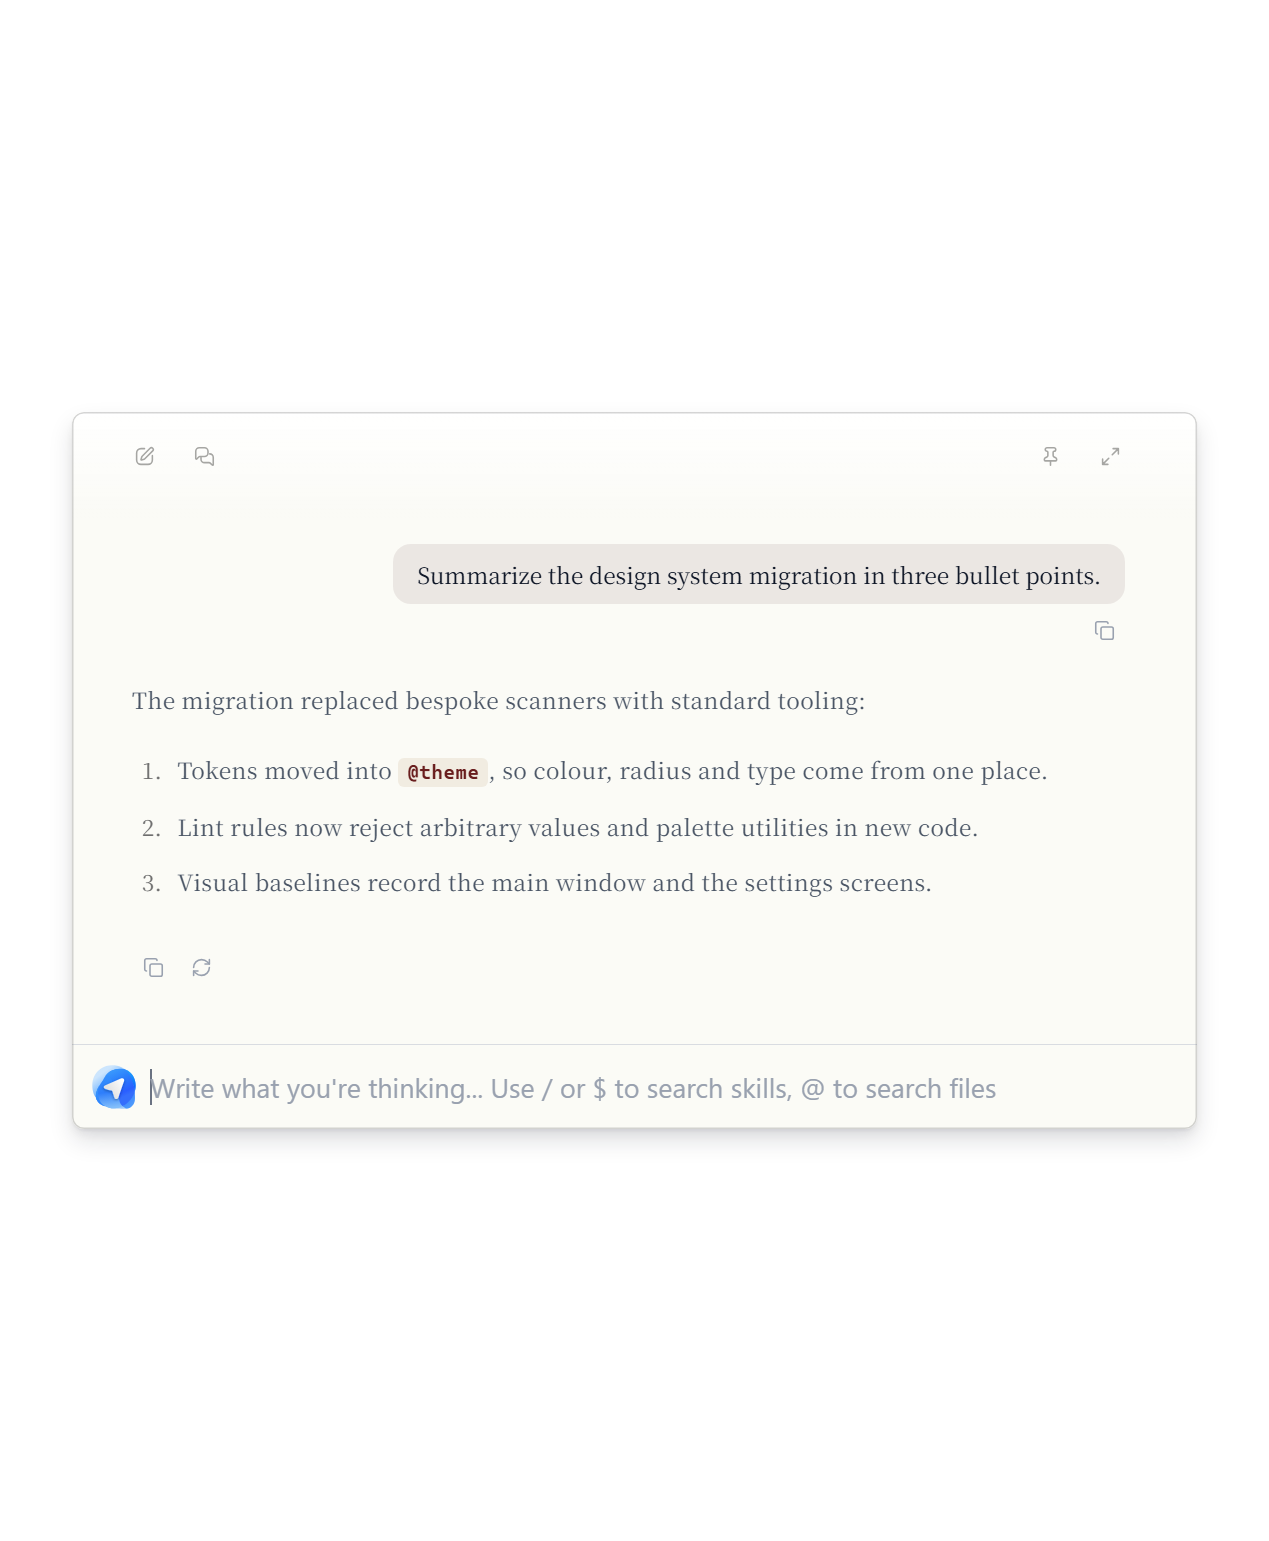
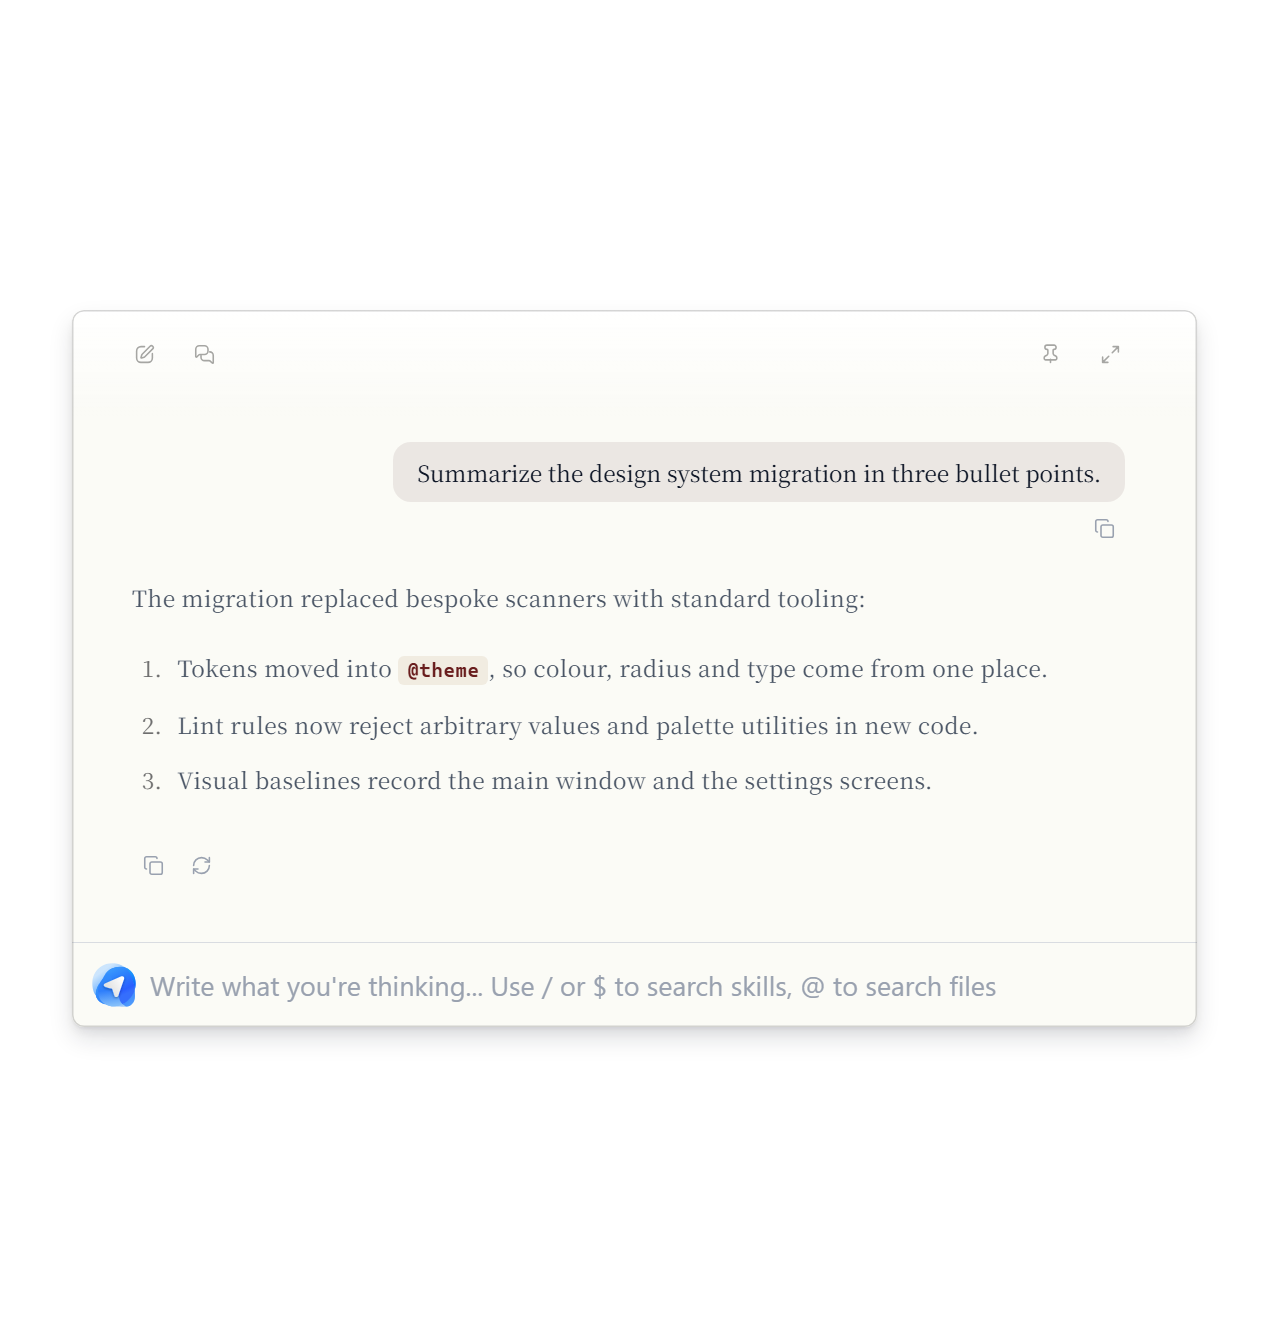
fix(desktop): use a soft pushpin glyph for window pin
Lucide's pushpin head and flange collapse into a dense blob at the 14px
toolbar size. The local pushpin keeps the same silhouette but uses a
capsule head and a rounded flange, so the outline stays readable and
soft next to the other toolbar glyphs.

Running-app evidence was regenerated from the built Tauri app.

diff --git a/apps/desktop/src/components/appIconMap.ts b/apps/desktop/src/components/appIconMap.ts
@@ -1,5 +1,6 @@
 import RoundedMessagesSquareIcon from '@components/icons/RoundedMessagesSquareIcon.vue';
 import RoundedSquarePenIcon from '@components/icons/RoundedSquarePenIcon.vue';
+import SoftPinIcon from '@components/icons/SoftPinIcon.vue';
 import type { Component } from 'vue';
 
 import IconArrowBigUp from '~icons/lucide/arrow-big-up';
@@ -41,7 +42,6 @@ import IconCompress from '~icons/lucide/minimize-2';
 import IconMinus from '~icons/lucide/minus';
 import IconPointer from '~icons/lucide/mouse-pointer-2';
 import IconEdit from '~icons/lucide/pencil';
-import IconPin from '~icons/lucide/pin';
 import IconPlay from '~icons/lucide/play';
 import IconPlus from '~icons/lucide/plus';
 import IconRefresh from '~icons/lucide/refresh-cw';
@@ -101,7 +101,7 @@ export const appIconMap = {
     mcp: IconBlocks,
     minimize: IconMinus,
     'new-session': RoundedSquarePenIcon,
-    pin: IconPin,
+    pin: SoftPinIcon,
     play: IconPlay,
     plus: IconPlus,
     refresh: IconRefresh,

diff --git a/apps/desktop/src/components/icons/SoftPinIcon.vue b/apps/desktop/src/components/icons/SoftPinIcon.vue
@@ -1,0 +1,14 @@
+<template>
+    <svg
+        xmlns="http://www.w3.org/2000/svg"
+        viewBox="0 0 24 24"
+        fill="none"
+        stroke="currentColor"
+        stroke-linecap="round"
+        stroke-linejoin="round"
+    >
+        <path
+            d="M12 17.4v3.8M9 10.9a2.4 2.4 0 0 1-1.2 1.9l-1.8.9a2.2 2.2 0 0 0-1.2 2v1a1.4 1.4 0 0 0 1.4 1.4h11.6a1.4 1.4 0 0 0 1.4-1.4v-1a2.2 2.2 0 0 0-1.2-2l-1.8-.9a2.4 2.4 0 0 1-1.2-1.9V7.1a1 1 0 0 1 1-1a2.4 2.4 0 0 0 0-4.8H8a2.4 2.4 0 0 0 0 4.8a1 1 0 0 1 1 1z"
+        />
+    </svg>
+</template>

diff --git a/docs/agents/design-system.md b/docs/agents/design-system.md
@@ -64,8 +64,8 @@ an icon package directly.
 
 - **Set:** Lucide (`@iconify-json/lucide`). Change the single `--app-icon-stroke`
   custom property in `styles/tailwind.css` to adjust the product's `1.8` stroke
-  weight globally. The two conversation-toolbar glyphs below are Lucide paths with
-  a larger corner radius, kept local because Lucide ships only the sharper original.
+  weight globally. The conversation-toolbar glyphs below are Lucide paths with
+  softer geometry, kept local because Lucide ships only the sharper originals.
 - **Adding an icon:** add the semantic name to `appIconMap`, then use it through
   `AppIcon`. Do not import `~icons/*` in a component.
 - **Window glyphs:** `maximize-square` / `restore-square` are the conventional plain
@@ -79,6 +79,9 @@ an icon package directly.
   The larger corner radius keeps both readable and soft at 14px, where Lucide's
   default 2px radius reads as a sharp box. `copy` uses the simple overlapping-sheet
   glyph rather than a clipboard with an extra mark.
+  `pin` uses a local pushpin with a capsule head and a rounded flange; Lucide's
+  stock pushpin has a square head and sharp flange that collapse into a dense blob
+  at 14px. The needle still carries the always-on-top meaning.
   Session actions sit on the left and window controls on the right; the four controls
   use separate 36px targets without an enclosing capsule, 4px between targets, and
   14px glyphs on the conversation text column. Their light chrome tone keeps them
